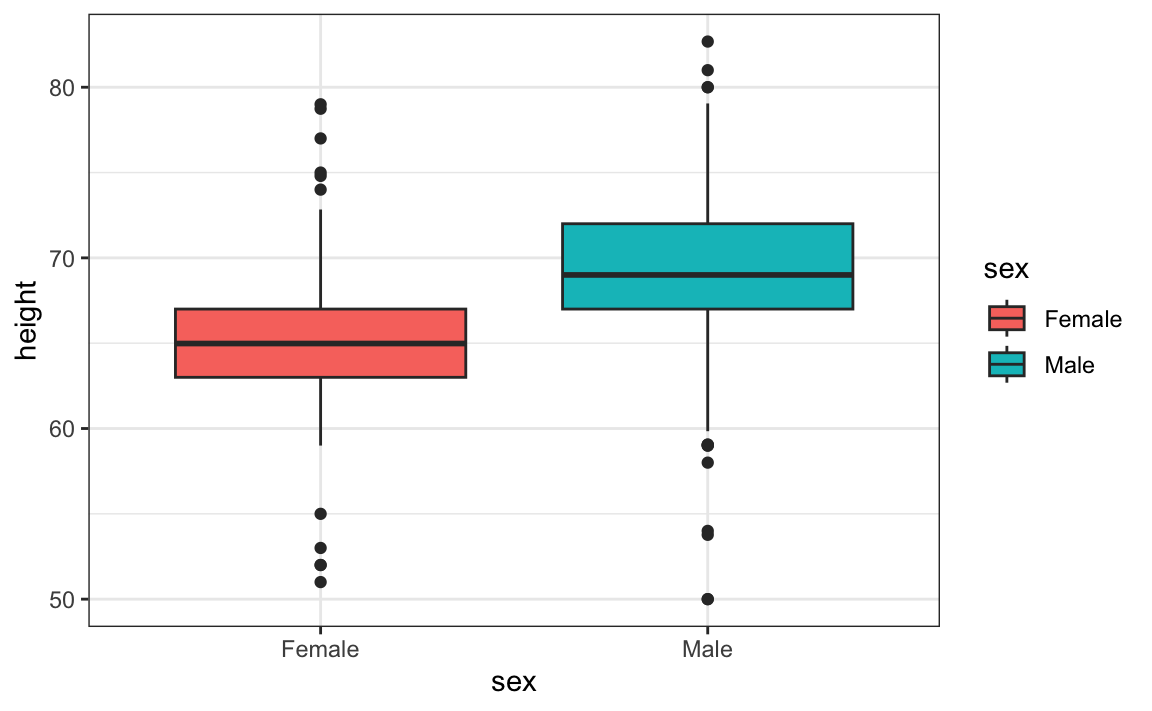
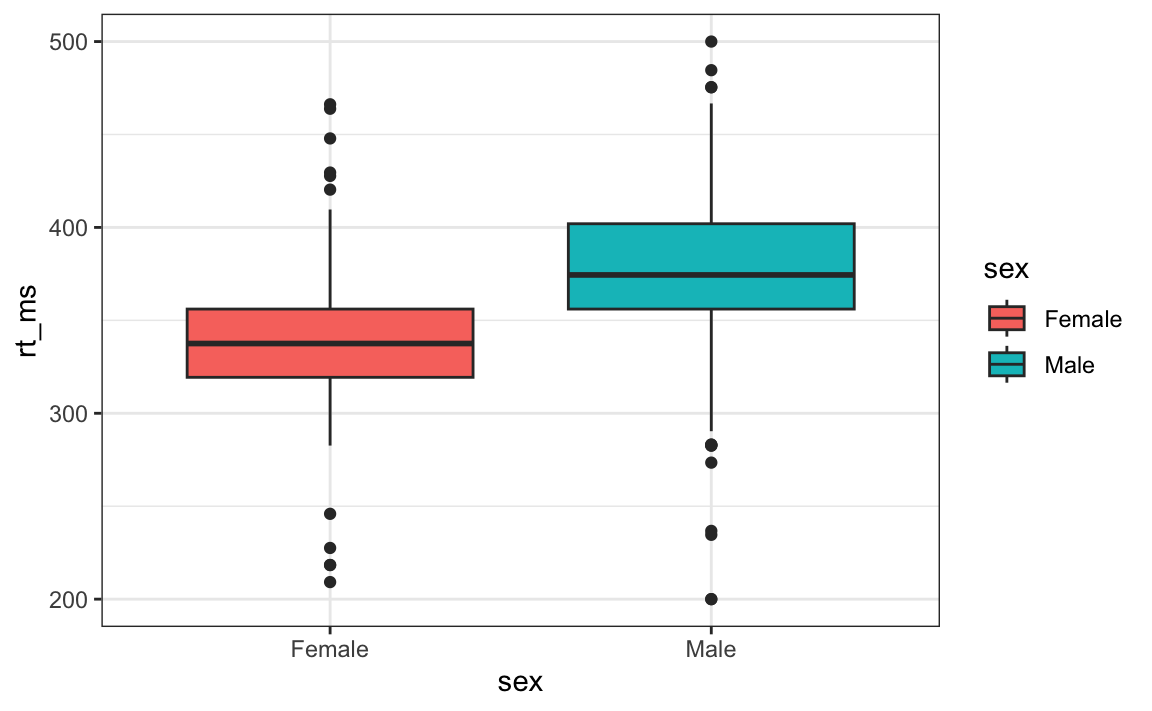
Reflavor distributions.qmd: heights->reaction_times, murders->app_data_breaches
Rewrites the ET/height-survey narrative frame to a reaction-time-study
frame (participants completing an RT task, anticipatory-press outliers
near the 200ms floor instead of an imperial-unit typo story), swaps the
US-regions barplot and boxplot examples to app_data_breaches, and moves
the population-by-continent exercise to global_tech_adoption's
active_user_base. Recomputed all interpretive numbers against the new
datasets (mean/SD, median breach rate, exercise answers) rather than
reusing the original's approximations.

diff --git a/docs/dataviz/distributions.html b/docs/dataviz/distributions.html
@@ -369,7 +369,7 @@ window.Quarto = {
    
   <ul>
   <li><a href="#variable-types" id="toc-variable-types" class="nav-link active" data-scroll-target="#variable-types"><span class="header-section-number">7.1</span> Variable types</a></li>
-  <li><a href="#case-study-describing-student-heights" id="toc-case-study-describing-student-heights" class="nav-link" data-scroll-target="#case-study-describing-student-heights"><span class="header-section-number">7.2</span> Case study: describing student heights</a></li>
+  <li><a href="#case-study-describing-reaction-times" id="toc-case-study-describing-reaction-times" class="nav-link" data-scroll-target="#case-study-describing-reaction-times"><span class="header-section-number">7.2</span> Case study: describing reaction times</a></li>
   <li><a href="#distributions" id="toc-distributions" class="nav-link" data-scroll-target="#distributions"><span class="header-section-number">7.3</span> Distributions</a>
   <ul class="collapse">
   <li><a href="#histograms" id="toc-histograms" class="nav-link" data-scroll-target="#histograms"><span class="header-section-number">7.3.1</span> Histograms</a></li>
@@ -407,34 +407,34 @@ window.Quarto = {
 
 <p>Summarizing complex datasets is crucial in data analysis, allowing us to share insights drawn from the data more effectively. One common method is to use the <em>average</em> value to summarize a list of numbers. For instance, a high school’s quality might be represented by the average score in a standardized test. Sometimes, an additional value, the <em>standard deviation</em>, is added. So, a report might say the scores were 680 <span class="math inline">\(\pm\)</span> 50, boiling down a full set of scores to just two numbers. But is this enough? Are we overlooking crucial information by relying solely on these summaries instead of the complete data?</p>
 <p>Our first data visualization building block is learning to summarize lists of numbers or categories. More often than not, the best way to share or explore these summaries is through data visualization. The most basic statistical summary of a list of objects or numbers is its distribution. Once a data has been summarized as a distribution, there are several data visualization techniques to effectively relay this information. For this reason, it is important to have a deep understand of the concept of a distribution.</p>
-<p>In this chapter, we discuss properties of a variety of distributions and how to visualize distributions using a motivating example of student heights.</p>
+<p>In this chapter, we discuss properties of a variety of distributions and how to visualize distributions using a motivating example of participant reaction times.</p>
 <section id="variable-types" class="level2" data-number="7.1">
 <h2 data-number="7.1" class="anchored" data-anchor-id="variable-types"><span class="header-section-number">7.1</span> Variable types</h2>
-<p>The two main variables types are <em>categorical</em> and <em>numeric</em>. Each can be divided into two other groups: categorical can be ordinal or not, whereas numerical variables can be discrete or continuous. When entry in a dataset represent a group rather than a number w we refer to the data as <em>categorical data</em>. Two simple examples are sex (male or female) and US regions (Northeast, South, North Central, West). Some categorical data can be ordered even if they are not numbers per se, such as spiciness (mild, medium, hot). In statistics, ordered categorical data are referred to as <em>ordinal</em> data. Examples of numerical data are population sizes, murder rates, and heights. We can further divide numerical data into continuous and discrete. Continuous variables are those that can take any value, such as heights, if measured with enough precision. For example, a pair of twins may be 68.12 and 68.11 inches, respectively. Counts, such as population sizes, are discrete because they have to be round numbers.</p>
+<p>The two main variables types are <em>categorical</em> and <em>numeric</em>. Each can be divided into two other groups: categorical can be ordinal or not, whereas numerical variables can be discrete or continuous. When entry in a dataset represent a group rather than a number w we refer to the data as <em>categorical data</em>. Two simple examples are sex (male or female) and US regions (Northeast, South, North Central, West). Some categorical data can be ordered even if they are not numbers per se, such as spiciness (mild, medium, hot). In statistics, ordered categorical data are referred to as <em>ordinal</em> data. Examples of numerical data are active-user counts, data-breach incident rates, and reaction times. We can further divide numerical data into continuous and discrete. Continuous variables are those that can take any value, such as reaction times, if measured with enough precision. For example, two participants completing the same trial may respond in 342.12 and 342.11 milliseconds, respectively. Counts, such as active-user counts, are discrete because they have to be round numbers.</p>
 <p>Keep in mind that discrete numeric data can be considered ordinal. Although this is technically true, we usually reserve the term ordinal data for variables belonging to a small number of different groups, with each group having many members. In contrast, when we have many groups with few cases in each group, we typically refer to them as discrete numerical variables. So, for example, the number of packs of cigarettes a person smokes a day, rounded to the closest pack, would be considered ordinal, while the actual number of cigarettes would be considered a numerical variable. But, indeed, there are examples that can be considered both numerical and ordinal when it comes to visualizing data.</p>
 <p>Here we focus on numeric variables because visualizing this data type is substantially more complex. However, we start by describing data visualization and summarization approaches for categorical data.</p>
 </section>
-<section id="case-study-describing-student-heights" class="level2" data-number="7.2">
-<h2 data-number="7.2" class="anchored" data-anchor-id="case-study-describing-student-heights"><span class="header-section-number">7.2</span> Case study: describing student heights</h2>
+<section id="case-study-describing-reaction-times" class="level2" data-number="7.2">
+<h2 data-number="7.2" class="anchored" data-anchor-id="case-study-describing-reaction-times"><span class="header-section-number">7.2</span> Case study: describing reaction times</h2>
 <p>We introduce a new motivating problem. It is an artificial one, but it will help us illustrate the concepts needed to understand distributions.</p>
-<p>Pretend that we have to describe the heights of our classmates to ET, an extraterrestrial that has never seen humans. As a first step, we need to collect data. To do this, we ask students to report their heights in inches. We ask them to provide sex information because we know there are two different height distributions by sex. We collect the data and save it in the <code>heights</code> data frame:</p>
+<p>Pretend that we have to describe the reaction times of our study participants to ET, an extraterrestrial that has never run a psychology experiment. As a first step, we need to collect data. To do this, we ask participants to complete a simple reaction-time task and record their response time in milliseconds. We ask them to provide sex information because we know there are two different reaction-time distributions by sex. We collect the data and save it in the <code>reaction_times</code> data frame:</p>
 <div class="cell" data-layout-align="center">
 <div class="sourceCode cell-code" id="cb1"><pre class="sourceCode r code-with-copy"><code class="sourceCode r"><span id="cb1-1"><a href="#cb1-1" aria-hidden="true" tabindex="-1"></a><span class="fu">library</span>(tidyverse)</span>
-<span id="cb1-2"><a href="#cb1-2" aria-hidden="true" tabindex="-1"></a><span class="fu">library</span>(dslabs)</span>
-<span id="cb1-3"><a href="#cb1-3" aria-hidden="true" tabindex="-1"></a><span class="fu">head</span>(heights)</span>
-<span id="cb1-4"><a href="#cb1-4" aria-hidden="true" tabindex="-1"></a><span class="co">#&gt;      sex height</span></span>
-<span id="cb1-5"><a href="#cb1-5" aria-hidden="true" tabindex="-1"></a><span class="co">#&gt; 1   Male     75</span></span>
-<span id="cb1-6"><a href="#cb1-6" aria-hidden="true" tabindex="-1"></a><span class="co">#&gt; 2   Male     70</span></span>
-<span id="cb1-7"><a href="#cb1-7" aria-hidden="true" tabindex="-1"></a><span class="co">#&gt; 3   Male     68</span></span>
-<span id="cb1-8"><a href="#cb1-8" aria-hidden="true" tabindex="-1"></a><span class="co">#&gt; 4   Male     74</span></span>
-<span id="cb1-9"><a href="#cb1-9" aria-hidden="true" tabindex="-1"></a><span class="co">#&gt; 5   Male     61</span></span>
-<span id="cb1-10"><a href="#cb1-10" aria-hidden="true" tabindex="-1"></a><span class="co">#&gt; 6 Female     65</span></span></code><button title="Copy to Clipboard" class="code-copy-button"><i class="bi"></i></button></pre></div>
+<span id="cb1-2"><a href="#cb1-2" aria-hidden="true" tabindex="-1"></a><span class="fu">library</span>(behdslabs)</span>
+<span id="cb1-3"><a href="#cb1-3" aria-hidden="true" tabindex="-1"></a><span class="fu">head</span>(reaction_times)</span>
+<span id="cb1-4"><a href="#cb1-4" aria-hidden="true" tabindex="-1"></a><span class="co">#&gt;      sex rt_ms</span></span>
+<span id="cb1-5"><a href="#cb1-5" aria-hidden="true" tabindex="-1"></a><span class="co">#&gt; 1   Male   430</span></span>
+<span id="cb1-6"><a href="#cb1-6" aria-hidden="true" tabindex="-1"></a><span class="co">#&gt; 2   Male   384</span></span>
+<span id="cb1-7"><a href="#cb1-7" aria-hidden="true" tabindex="-1"></a><span class="co">#&gt; 3   Male   365</span></span>
+<span id="cb1-8"><a href="#cb1-8" aria-hidden="true" tabindex="-1"></a><span class="co">#&gt; 4   Male   420</span></span>
+<span id="cb1-9"><a href="#cb1-9" aria-hidden="true" tabindex="-1"></a><span class="co">#&gt; 5   Male   301</span></span>
+<span id="cb1-10"><a href="#cb1-10" aria-hidden="true" tabindex="-1"></a><span class="co">#&gt; 6 Female   338</span></span></code><button title="Copy to Clipboard" class="code-copy-button"><i class="bi"></i></button></pre></div>
 </div>
-<p>One way to convey the heights to ET is to simply send him this list of 1,050 heights. But there are much more effective ways to convey this information, and understanding the concept of a distribution will be key. To simplify the explanation, we first focus on male heights. We examine the female height data in <a href="#sec-student-height-cont" class="quarto-xref"><span>Section 7.6</span></a>.</p>
+<p>One way to convey the reaction times to ET is to simply send them this list of 1,050 reaction times. But there are much more effective ways to convey this information, and understanding the concept of a distribution will be key. To simplify the explanation, we first focus on male reaction times. We examine the female reaction-time data in <a href="#sec-student-height-cont" class="quarto-xref"><span>Section 7.6</span></a>.</p>
 </section>
 <section id="distributions" class="level2" data-number="7.3">
 <h2 data-number="7.3" class="anchored" data-anchor-id="distributions"><span class="header-section-number">7.3</span> Distributions</h2>
-<p>The most basic statistical summary of a list of objects or numbers is its <em>distribution</em>. The simplest way to think of a distribution is as a compact description of a list with many entries. This concept should not be new for readers of this book. For example, with categorical data, the distribution simply describes the proportion of each unique category. The sex represented in the heights dataset is:</p>
+<p>The most basic statistical summary of a list of objects or numbers is its <em>distribution</em>. The simplest way to think of a distribution is as a compact description of a list with many entries. This concept should not be new for readers of this book. For example, with categorical data, the distribution simply describes the proportion of each unique category. The sex represented in the <code>reaction_times</code> dataset is:</p>
 <div class="cell" data-layout-align="center">
 <pre><code>#&gt; 
 #&gt; Female   Male 
@@ -453,8 +453,8 @@ window.Quarto = {
 <p>This particular plot simply shows us four numbers, one for each category. We usually use barplots to display a few numbers. Although this particular plot does not provide much more insight than a frequency table itself, it is a first example of how we convert a vector into a plot that succinctly summarizes all the information in the vector. When the data is numerical, the task of displaying distributions is more challenging.</p>
 <section id="histograms" class="level3" data-number="7.3.1">
 <h3 data-number="7.3.1" class="anchored" data-anchor-id="histograms"><span class="header-section-number">7.3.1</span> Histograms</h3>
-<p>Numerical data that are not categorical also have distributions. However, in general, when data is not categorical, reporting the frequency of each entry, as we did for categorical data, is not an effective summary since most entries are unique. For example, in our case study, while several students reported a height of 68 inches, only one student reported a height of <code>68.503937007874</code> inches and only one student reported a height <code>68.8976377952756</code> inches. We assume that they converted from 174 and 175 centimeters, respectively.</p>
-<p>Statistics textbooks teach us that a more useful way to define a distribution for numeric data is to define a function that reports the proportion of the data below <span class="math inline">\(a\)</span> for all possible values of <span class="math inline">\(a\)</span>. This function is called the empirical cumulative distribution function (eCDF), it can be plotted, and it provides a full description of the distribution of our data. Here is the eCDF for male student heights:</p>
+<p>Numerical data that are not categorical also have distributions. However, in general, when data is not categorical, reporting the frequency of each entry, as we did for categorical data, is not an effective summary since most entries are unique. For example, in our case study, while several participants recorded a reaction time close to 374 milliseconds, only one participant recorded a reaction time of <code>283.1325</code> milliseconds and only one recorded a reaction time of <code>435.0265</code> milliseconds. This level of precision is typical of computer-timed reaction-time tasks, which log responses to a fraction of a millisecond.</p>
+<p>Statistics textbooks teach us that a more useful way to define a distribution for numeric data is to define a function that reports the proportion of the data below <span class="math inline">\(a\)</span> for all possible values of <span class="math inline">\(a\)</span>. This function is called the empirical cumulative distribution function (eCDF), it can be plotted, and it provides a full description of the distribution of our data. Here is the eCDF for male reaction times:</p>
 <div class="cell" data-layout-align="center">
 <div class="cell-output-display">
 <div class="quarto-figure quarto-figure-center">
@@ -465,24 +465,24 @@ window.Quarto = {
 </div>
 </div>
 <p>However, summarizing data by plotting the eCDF is actually not very popular in practice. The main reason is that it does not easily convey characteristics of interest such as: at what value is the distribution centered? Is the distribution symmetric? What ranges contain 95% of the values?</p>
-<p><em>Histograms</em> are much preferred because they greatly facilitate answering such questions. Histograms sacrifice just a bit of information to produce plots that are much easier to interpret. The simplest way to make a histogram is to divide the span of our data into non-overlapping bins of the same size. Then, for each bin, we count the number of values that fall in that interval. The histogram plots these counts as bars with the base of the bar defined by the intervals. Here is the histogram for the height data splitting the range of values into one inch intervals: <span class="math inline">\((49.5, 50.5]\)</span>, <span class="math inline">\((50.5, 51.5]\)</span>, <span class="math inline">\((51.5,52.5]\)</span>, <span class="math inline">\((52.5,53.5]\)</span>, <span class="math inline">\(...\)</span>, <span class="math inline">\((82.5,83.5]\)</span>.</p>
+<p><em>Histograms</em> are much preferred because they greatly facilitate answering such questions. Histograms sacrifice just a bit of information to produce plots that are much easier to interpret. The simplest way to make a histogram is to divide the span of our data into non-overlapping bins of the same size. Then, for each bin, we count the number of values that fall in that interval. The histogram plots these counts as bars with the base of the bar defined by the intervals. Here is the histogram for the reaction-time data splitting the range of values into ten-millisecond intervals: <span class="math inline">\((195, 205]\)</span>, <span class="math inline">\((205, 215]\)</span>, <span class="math inline">\((215,225]\)</span>, <span class="math inline">\((225,235]\)</span>, <span class="math inline">\(...\)</span>, <span class="math inline">\((495,505]\)</span>.</p>
 <div class="cell" data-layout-align="center">
 <div class="cell-output-display">
 <div class="quarto-figure quarto-figure-center">
 <figure class="figure">
-<p><img src="distributions_files/figure-html/height-histogram-1.png" class="img-fluid quarto-figure quarto-figure-center figure-img" style="width:70.0%"></p>
+<p><img src="distributions_files/figure-html/rt-histogram-1.png" class="img-fluid quarto-figure quarto-figure-center figure-img" style="width:70.0%"></p>
 </figure>
 </div>
 </div>
 </div>
 <p>As you can see in the figure above, a histogram is similar to a barplot, but it differs in that the x-axis is numerical, not categorical.</p>
-<p>If we send this plot to ET, he will immediately learn some important properties about our data. First, the range of the data is from 50 to 84 with the majority (more than 95%) between 63 and 75 inches. Second, the heights are close to symmetric around 69 inches. Also, by adding up counts, ET could obtain a very good approximation of the proportion of the data in any interval. Therefore, the histogram above is not only easy to interpret, but also provides almost all the information contained in the raw list of 812 male heights with about 30 bins.</p>
-<p>What information do we lose? Note that all values in each interval are treated the same when computing bin heights. So, for example, the histogram does not distinguish between 64, 64.1, and 64.2 inches. Given that these differences are almost unnoticeable to the eye, the practical implications are negligible and we were able to summarize the data to just 23 numbers.</p>
+<p>If we send this plot to ET, they will immediately learn some important properties about our data. First, the range of the data is from 200 to 500 with the majority (more than 95%) between 305 and 439 milliseconds. Second, the reaction times are close to symmetric around 377 milliseconds. Also, by adding up counts, ET could obtain a very good approximation of the proportion of the data in any interval. Therefore, the histogram above is not only easy to interpret, but also provides almost all the information contained in the raw list of 812 male reaction times with about 30 bins.</p>
+<p>What information do we lose? Note that all values in each interval are treated the same when computing bin heights. So, for example, the histogram does not distinguish between 340, 340.1, and 340.2 milliseconds. Given that these differences are almost unnoticeable to the eye, the practical implications are negligible and we were able to summarize the data to just 26 numbers.</p>
 <p>We discuss how to code histograms in <a href="ggplot2.html#sec-other-geometries" class="quarto-xref"><span>Section 8.14</span></a>.</p>
 </section>
 <section id="smoothed-density" class="level3" data-number="7.3.2">
 <h3 data-number="7.3.2" class="anchored" data-anchor-id="smoothed-density"><span class="header-section-number">7.3.2</span> Smoothed density</h3>
-<p><em>Smooth density</em> plots relay the same information as a histogram but are aesthetically more appealing. Here is what a smooth density plot looks like for our male heights data:</p>
+<p><em>Smooth density</em> plots relay the same information as a histogram but are aesthetically more appealing. Here is what a smooth density plot looks like for our male reaction-time data:</p>
 <div class="cell" data-layout-align="center">
 <div class="cell-output-display">
 <div class="quarto-figure quarto-figure-center">
@@ -493,7 +493,7 @@ window.Quarto = {
 </div>
 </div>
 <p>In this plot, we no longer have sharp edges at the interval boundaries and many of the local peaks have been removed. Also, the scale of the y-axis changed from counts to <em>density</em>. To fully understand smooth densities, we have to understand <em>estimates</em>, a topic covered in statistics our advanced data science textbooks. Here we simply describe them as making the histograms prettier by drawing a curve that goes through the top of the histogram bars and then removing the bars. The values shown y-axis are chosen so that the area under the curve adds up to 1. This implies that for any interval, the area under the curve for that interval gives us an approximation of how what proportion of the data is in the interval.</p>
-<p>An advantage of smooth densities over histograms for visualization purposes is that densities make it easier to compare two distributions. This is in large part because the jagged edges of the histogram add clutter. Here is an example comparing male and female heights:</p>
+<p>An advantage of smooth densities over histograms for visualization purposes is that densities make it easier to compare two distributions. This is in large part because the jagged edges of the histogram add clutter. Here is an example comparing male and female reaction times:</p>
 <div class="cell" data-layout-align="center">
 <div class="cell-output-display">
 <div class="quarto-figure quarto-figure-center">
@@ -518,11 +518,11 @@ window.Quarto = {
 </div>
 </div>
 </div>
-<p>The normal distribution is one of the most famous mathematical concepts in history. A reason for this is that the distribution of many datasets can be approximated with normal distributions. These include gambling winnings, heights, weights, blood pressure, standardized test scores, and experimental measurement errors. Statistical textbooks offer explanations for why this is the case. But how can the same distribution approximate datasets with completely different ranges for values, for example heights and weights? A second important characteristic of the normal distribution is that it can be adapted to different datasets by just adjusting two numbers, referred to as the <em>average</em> or <em>mean</em> and the <em>standard deviation</em> (SD). The normal distribution is symmetric, centered at what we refer to as the average, and most values (about 95%) are within 2 SDs from the average. The plot above shows a normal distribution with average 0 and SD 1, often referred to as a <em>standard normal</em>. Note that the fact that only two numbers are needed to adapt the normal distribution to a dataset implies that if our data distribution is approximated by a normal distribution, all the information needed to describe the distribution can be encoded by just two numbers. We now define these values for an arbitrary list of numbers.</p>
+<p>The normal distribution is one of the most famous mathematical concepts in history. A reason for this is that the distribution of many datasets can be approximated with normal distributions. These include gambling winnings, reaction times, weights, blood pressure, standardized test scores, and experimental measurement errors. Statistical textbooks offer explanations for why this is the case. But how can the same distribution approximate datasets with completely different ranges for values, for example reaction times and weights? A second important characteristic of the normal distribution is that it can be adapted to different datasets by just adjusting two numbers, referred to as the <em>average</em> or <em>mean</em> and the <em>standard deviation</em> (SD). The normal distribution is symmetric, centered at what we refer to as the average, and most values (about 95%) are within 2 SDs from the average. The plot above shows a normal distribution with average 0 and SD 1, often referred to as a <em>standard normal</em>. Note that the fact that only two numbers are needed to adapt the normal distribution to a dataset implies that if our data distribution is approximated by a normal distribution, all the information needed to describe the distribution can be encoded by just two numbers. We now define these values for an arbitrary list of numbers.</p>
 <p>Once we are convinced that our data, say it is stored in the vector <code>x</code>, has a distribution that is <em>approximately normal</em>, we can find the specific one that matches our data by matching the average and SD of the data to the average and SD of the normal distribution, respectively. For a list of numbers contained in a vector <code>x</code>:</p>
 <div class="cell" data-layout-align="center">
-<div class="sourceCode cell-code" id="cb3"><pre class="sourceCode r code-with-copy"><code class="sourceCode r"><span id="cb3-1"><a href="#cb3-1" aria-hidden="true" tabindex="-1"></a>index <span class="ot">&lt;-</span> heights<span class="sc">$</span>sex <span class="sc">==</span> <span class="st">"Male"</span></span>
-<span id="cb3-2"><a href="#cb3-2" aria-hidden="true" tabindex="-1"></a>x <span class="ot">&lt;-</span> heights<span class="sc">$</span>height[index]</span></code><button title="Copy to Clipboard" class="code-copy-button"><i class="bi"></i></button></pre></div>
+<div class="sourceCode cell-code" id="cb3"><pre class="sourceCode r code-with-copy"><code class="sourceCode r"><span id="cb3-1"><a href="#cb3-1" aria-hidden="true" tabindex="-1"></a>index <span class="ot">&lt;-</span> reaction_times<span class="sc">$</span>sex <span class="sc">==</span> <span class="st">"Male"</span></span>
+<span id="cb3-2"><a href="#cb3-2" aria-hidden="true" tabindex="-1"></a>x <span class="ot">&lt;-</span> reaction_times<span class="sc">$</span>rt_ms[index]</span></code><button title="Copy to Clipboard" class="code-copy-button"><i class="bi"></i></button></pre></div>
 </div>
 <p>the average is defined as</p>
 <div class="cell" data-layout-align="center">
@@ -539,9 +539,9 @@ window.Quarto = {
 <span id="cb6-2"><a href="#cb6-2" aria-hidden="true" tabindex="-1"></a>s <span class="ot">&lt;-</span> <span class="fu">sd</span>(x)</span>
 <span id="cb6-3"><a href="#cb6-3" aria-hidden="true" tabindex="-1"></a><span class="fu">c</span>(<span class="at">average =</span> m, <span class="at">sd =</span> s)</span>
 <span id="cb6-4"><a href="#cb6-4" aria-hidden="true" tabindex="-1"></a><span class="co">#&gt; average      sd </span></span>
-<span id="cb6-5"><a href="#cb6-5" aria-hidden="true" tabindex="-1"></a><span class="co">#&gt;   69.31    3.61</span></span></code><button title="Copy to Clipboard" class="code-copy-button"><i class="bi"></i></button></pre></div>
+<span id="cb6-5"><a href="#cb6-5" aria-hidden="true" tabindex="-1"></a><span class="co">#&gt;   377.3    33.2</span></span></code><button title="Copy to Clipboard" class="code-copy-button"><i class="bi"></i></button></pre></div>
 </div>
-<p>Here is a plot of our student height smooth density in blue and the normal distribution with mean = 69.3 and SD = 3.6 plotted as a black line:</p>
+<p>Here is a plot of our reaction-time smooth density in blue and the normal distribution with mean = 377.3 and SD = 33.2 plotted as a black line:</p>
 <div class="cell" data-layout-align="center">
 <div class="cell-output-display">
 <div class="quarto-figure quarto-figure-center">
@@ -557,7 +557,7 @@ window.Quarto = {
 <h2 data-number="7.4" class="anchored" data-anchor-id="sec-boxplots"><span class="header-section-number">7.4</span> Boxplots</h2>
 <p>To understand boxplots we need to define some terms that are commonly used in exploratory data analysis.</p>
 <p>The <em>percentiles</em> are the values for which <span class="math inline">\(p = 0.01, 0.02, ..., 0.99\)</span> of the data are less then or equal to that value, respectively. We call, for example, the case of <span class="math inline">\(p=0.10\)</span> the 10th percentile, which gives us a number for which 10% of the data is below. The most famous percentile is the 50th, also known as the <em>median</em>. Another special case that receives a name are the <em>quartiles</em>, which are obtained when setting <span class="math inline">\(p=0.25,0.50\)</span>, and <span class="math inline">\(0.75\)</span>, which are used by the boxplot.</p>
-<p>To motivate boxplots we will go back to the US murder data. Suppose we want to summarize the murder rate distribution. Using the data visualization technique we have learned, we can quickly see that the normal approximation does not apply here:</p>
+<p>To motivate boxplots we will go back to the data-breach incident data. Suppose we want to summarize the breach-rate distribution. Using the data visualization technique we have learned, we can quickly see that the normal approximation does not apply here:</p>
 <div class="cell" data-layout-align="center">
 <div class="cell-output-display">
 <div class="quarto-figure quarto-figure-center">
@@ -580,18 +580,18 @@ window.Quarto = {
 </div>
 </div>
 <p>with the box defined by the 25% and 75% percentile and the whiskers showing the range. The distance between the 25% and 75% percentile is called the <em>interquartile</em> range. The two points are outliers according to the R implementation. The median is shown with a horizontal line.</p>
-<p>From just this simple plot, we know that the median is about 2.5, that the distribution is not symmetric, and that the range is 0 to 5 for the great majority of states with two exceptions.</p>
+<p>From just this simple plot, we know that the median is about 2.7, that the distribution is not symmetric, and that the range is 0 to 5 for the great majority of states with two exceptions.</p>
 <p>We discuss how to make boxplots in <a href="ggplot2.html#sec-other-geometries" class="quarto-xref"><span>Section 8.14</span></a>.</p>
 </section>
 <section id="sec-dataviz-stratification" class="level2" data-number="7.5">
 <h2 data-number="7.5" class="anchored" data-anchor-id="sec-dataviz-stratification"><span class="header-section-number">7.5</span> Stratification</h2>
-<p>In data analysis we often divide observations into groups based on the values of one or more variables associated with those observations. For example in the next section we divide the height values into groups based on a sex variable: females and males. We call this procedure <em>stratification</em> and refer to the resulting groups as <em>strata</em>.</p>
+<p>In data analysis we often divide observations into groups based on the values of one or more variables associated with those observations. For example in the next section we divide the reaction-time values into groups based on a sex variable: females and males. We call this procedure <em>stratification</em> and refer to the resulting groups as <em>strata</em>.</p>
 <p>Stratification is common in data visualization because we are often interested in how the distributions of variables differ across different subgroups. We will see several examples throughout this part of the book, starting with the next section.</p>
 </section>
 <section id="sec-student-height-cont" class="level2" data-number="7.6">
 <h2 data-number="7.6" class="anchored" data-anchor-id="sec-student-height-cont"><span class="header-section-number">7.6</span> Case study continued</h2>
-<p>If we are convinced that the male height data is well approximated with a normal distribution we can report back to ET a very succinct summary: male heights follow a normal distribution with an average of 69.3 inches and a SD of 3.6 inches. With this information, ET will have a good idea of what to expect when he meets our male students. However, to provide a complete picture we need to also provide a summary of the female heights.</p>
-<p>Boxplots are useful when we want to quickly compare two or more distributions. Here are the heights for men and women:</p>
+<p>If we are convinced that the male reaction-time data is well approximated with a normal distribution we can report back to ET a very succinct summary: male reaction times follow a normal distribution with an average of 377.3 milliseconds and a SD of 33.2 milliseconds. With this information, ET will have a good idea of what to expect when they test our male participants. However, to provide a complete picture we need to also provide a summary of the female reaction times.</p>
+<p>Boxplots are useful when we want to quickly compare two or more distributions. Here are the reaction times for men and women:</p>
 <div class="cell" data-layout-align="center">
 <div class="cell-output-display">
 <div class="quarto-figure quarto-figure-center">
@@ -601,34 +601,34 @@ window.Quarto = {
 </div>
 </div>
 </div>
-<p>The plot immediately reveals that males are, on average, taller than females. The interquartile ranges appear to be similar. But does the normal approximation also work for the female height data collected by the survey? We expect that they will follow a normal distribution, just like males. However, exploratory plots reveal that the approximation is not as useful:</p>
+<p>The plot immediately reveals that males are, on average, slower to respond than females. The interquartile ranges appear to be similar. But does the normal approximation also work for the female reaction-time data collected by the study? We expect that they will follow a normal distribution, just like males. However, exploratory plots reveal that the approximation is not as useful:</p>
 <div class="cell" data-layout-align="center">
 <div class="cell-output-display">
 <div class="quarto-figure quarto-figure-center">
 <figure class="figure">
-<p><img src="distributions_files/figure-html/histogram-qqplot-female-heights-1.png" class="img-fluid quarto-figure quarto-figure-center figure-img" style="width:70.0%"></p>
+<p><img src="distributions_files/figure-html/histogram-qqplot-female-reaction-times-1.png" class="img-fluid quarto-figure quarto-figure-center figure-img" style="width:70.0%"></p>
 </figure>
 </div>
 </div>
 </div>
-<p>We see something we did not see for the males: the density plot has a second “bump”. Also, the highest points tend to be taller than expected by the normal than expected heights for a normal distribution. When reporting back to ET, we might need to provide a histogram rather than just the average and standard deviation for the female heights.</p>
-<p>However, go back and read Tukey’s quote. We have noticed what we didn’t expect to see. If we look at other female height distributions, we do find that they are well approximated with a normal distribution. So why are our female students different? Is our class a requirement for the female basketball team? Are small proportions of females claiming to be taller than they are? Another, perhaps more likely, explanation is that in the form students used to enter their heights, <code>FEMALE</code> was the default sex and some males entered their heights, but forgot to change the sex variable. In any case, data visualization has helped discover a potential flaw in our data.</p>
+<p>We see something we did not see for the males: the density plot has a second “bump”. When reporting back to ET, we might need to provide a histogram rather than just the average and standard deviation for the female reaction times.</p>
+<p>However, go back and read Tukey’s quote. We have noticed what we didn’t expect to see. If we look at other female reaction-time distributions, we do find that they are well approximated with a normal distribution. So why are our female participants different? Is our sample partly drawn from a group of competitive gamers with unusually fast reflexes? Are a small proportion of female participants actually male participants who were assigned the wrong sex label? Another, perhaps more likely, explanation is that in the data-entry form participants used, <code>FEMALE</code> was the default sex and some male participants completed the task but forgot to change the sex field. In any case, data visualization has helped discover a potential flaw in our data.</p>
 <p>Regarding the five smallest values, note that these values are:</p>
 <div class="cell" data-layout-align="center">
-<div class="sourceCode cell-code" id="cb7"><pre class="sourceCode r code-with-copy"><code class="sourceCode r"><span id="cb7-1"><a href="#cb7-1" aria-hidden="true" tabindex="-1"></a>heights <span class="sc">|&gt;</span> <span class="fu">filter</span>(sex <span class="sc">==</span> <span class="st">"Female"</span>) <span class="sc">|&gt;</span> </span>
-<span id="cb7-2"><a href="#cb7-2" aria-hidden="true" tabindex="-1"></a>  <span class="fu">slice_min</span>(height, <span class="at">n =</span> <span class="dv">5</span>) <span class="sc">|&gt;</span></span>
-<span id="cb7-3"><a href="#cb7-3" aria-hidden="true" tabindex="-1"></a>  <span class="fu">pull</span>(height)</span>
-<span id="cb7-4"><a href="#cb7-4" aria-hidden="true" tabindex="-1"></a><span class="co">#&gt; [1] 51 52 52 53 55</span></span></code><button title="Copy to Clipboard" class="code-copy-button"><i class="bi"></i></button></pre></div>
+<div class="sourceCode cell-code" id="cb7"><pre class="sourceCode r code-with-copy"><code class="sourceCode r"><span id="cb7-1"><a href="#cb7-1" aria-hidden="true" tabindex="-1"></a>reaction_times <span class="sc">|&gt;</span> <span class="fu">filter</span>(sex <span class="sc">==</span> <span class="st">"Female"</span>) <span class="sc">|&gt;</span></span>
+<span id="cb7-2"><a href="#cb7-2" aria-hidden="true" tabindex="-1"></a>  <span class="fu">slice_min</span>(rt_ms, <span class="at">n =</span> <span class="dv">5</span>) <span class="sc">|&gt;</span></span>
+<span id="cb7-3"><a href="#cb7-3" aria-hidden="true" tabindex="-1"></a>  <span class="fu">pull</span>(rt_ms)</span>
+<span id="cb7-4"><a href="#cb7-4" aria-hidden="true" tabindex="-1"></a><span class="co">#&gt; [1] 209 218 218 228 246</span></span></code><button title="Copy to Clipboard" class="code-copy-button"><i class="bi"></i></button></pre></div>
 </div>
-<p>Because these are reported heights, a possibility is that the student meant to enter <code>5'1"</code>, <code>5'2"</code>, <code>5'3"</code> or <code>5'5"</code>.</p>
+<p>Because genuine visual reaction time rarely drops below about 200 milliseconds, a possibility is that these were anticipatory presses: participants responding before the stimulus appeared, rather than truly reacting to it.</p>
 </section>
 <section id="exercises" class="level2" data-number="7.7">
 <h2 data-number="7.7" class="anchored" data-anchor-id="exercises"><span class="header-section-number">7.7</span> Exercises</h2>
-<p>1. Define variables containing the heights of males and females like this:</p>
+<p>1. Define variables containing the reaction times of males and females like this:</p>
 <div class="cell" data-layout-align="center">
-<div class="sourceCode cell-code" id="cb8"><pre class="sourceCode r code-with-copy"><code class="sourceCode r"><span id="cb8-1"><a href="#cb8-1" aria-hidden="true" tabindex="-1"></a><span class="fu">library</span>(dslabs)</span>
-<span id="cb8-2"><a href="#cb8-2" aria-hidden="true" tabindex="-1"></a>male <span class="ot">&lt;-</span> heights<span class="sc">$</span>height[heights<span class="sc">$</span>sex <span class="sc">==</span> <span class="st">"Male"</span>]</span>
-<span id="cb8-3"><a href="#cb8-3" aria-hidden="true" tabindex="-1"></a>female <span class="ot">&lt;-</span> heights<span class="sc">$</span>height[heights<span class="sc">$</span>sex <span class="sc">==</span> <span class="st">"Female"</span>]</span></code><button title="Copy to Clipboard" class="code-copy-button"><i class="bi"></i></button></pre></div>
+<div class="sourceCode cell-code" id="cb8"><pre class="sourceCode r code-with-copy"><code class="sourceCode r"><span id="cb8-1"><a href="#cb8-1" aria-hidden="true" tabindex="-1"></a><span class="fu">library</span>(behdslabs)</span>
+<span id="cb8-2"><a href="#cb8-2" aria-hidden="true" tabindex="-1"></a>male <span class="ot">&lt;-</span> reaction_times<span class="sc">$</span>rt_ms[reaction_times<span class="sc">$</span>sex <span class="sc">==</span> <span class="st">"Male"</span>]</span>
+<span id="cb8-3"><a href="#cb8-3" aria-hidden="true" tabindex="-1"></a>female <span class="ot">&lt;-</span> reaction_times<span class="sc">$</span>rt_ms[reaction_times<span class="sc">$</span>sex <span class="sc">==</span> <span class="st">"Female"</span>]</span></code><button title="Copy to Clipboard" class="code-copy-button"><i class="bi"></i></button></pre></div>
 </div>
 <p>How many measurements do we have for each?</p>
 <p>2. Suppose we can’t make a plot and want to compare the distributions side by side. We can’t just list all the numbers. Instead, we will look at the percentiles. In <a href="#sec-boxplots" class="quarto-xref"><span>Section 7.4</span></a> we defined percentiles as the values for which <span class="math inline">\(p = 0.01, 0.02, \ldots, 0.99\)</span> of the data are less than or equal to that value. The <code>quantile</code> function, which we used in <a href="../R/tidyverse.html" class="quarto-xref"><span>Chapter 4</span></a> and <a href="../R/data-table.html" class="quarto-xref"><span>Chapter 5</span></a>, is a generalization: <code>quantile(x, p)</code> returns the value for which proportion <code>p</code> of the data in <code>x</code> are at or below, for any <code>p</code> between 0 and 1. Percentiles are the special case where <span class="math inline">\(p\)</span> is one of <span class="math inline">\(0.01, 0.02, \ldots, 0.99\)</span>, for example, <code>quantile(x, 0.10)</code> gives the 10th percentile. You can pass a vector of proportions to get several percentiles at once:</p>
@@ -636,7 +636,7 @@ window.Quarto = {
 <div class="sourceCode cell-code" id="cb9"><pre class="sourceCode r code-with-copy"><code class="sourceCode r"><span id="cb9-1"><a href="#cb9-1" aria-hidden="true" tabindex="-1"></a><span class="fu">quantile</span>(male, <span class="fu">c</span>(<span class="fl">0.10</span>, <span class="fl">0.30</span>, <span class="fl">0.50</span>, <span class="fl">0.70</span>, <span class="fl">0.90</span>))</span></code><button title="Copy to Clipboard" class="code-copy-button"><i class="bi"></i></button></pre></div>
 </div>
 <p>Use this to create a five-element vector <code>female_percentiles</code> and a five-element vector <code>male_percentiles</code> containing the 10th, 30th, 50th, 70th, and 90th percentiles for each sex. Then create a data frame with these two vectors as columns.</p>
-<p>3. Study the following boxplots showing population sizes by country:</p>
+<p>3. Study the following boxplots showing active-user-base sizes by country:</p>
 <div class="cell" data-layout-align="center">
 <div class="cell-output-display">
 <div class="quarto-figure quarto-figure-center">
@@ -646,10 +646,10 @@ window.Quarto = {
 </div>
 </div>
 </div>
-<p>Which continent has the country with the biggest population size?</p>
-<p>4. What continent has the largest median population size?</p>
-<p>5. What is median population size for Africa to the nearest million?</p>
-<p>6. What proportion of countries in Europe have populations below 14 million?</p>
+<p>Which continent has the country with the biggest active-user base?</p>
+<p>4. What continent has the largest median active-user base?</p>
+<p>5. What is the median active-user base for Africa, to the nearest million?</p>
+<p>6. What proportion of countries in Europe have an active-user base below 14 million?</p>
 <ol type="a">
 <li>0.99</li>
 <li>0.75</li>
@@ -657,12 +657,12 @@ window.Quarto = {
 <li>0.25</li>
 </ol>
 <p>7. If we use a log transformation, which continent shown above has the largest interquartile range?</p>
-<p>8. Load the height data set and create a vector <code>x</code> with just the male heights:</p>
+<p>8. Load the reaction-time data set and create a vector <code>x</code> with just the male reaction times:</p>
 <div class="cell" data-layout-align="center">
-<div class="sourceCode cell-code" id="cb10"><pre class="sourceCode r code-with-copy"><code class="sourceCode r"><span id="cb10-1"><a href="#cb10-1" aria-hidden="true" tabindex="-1"></a><span class="fu">library</span>(dslabs)</span>
-<span id="cb10-2"><a href="#cb10-2" aria-hidden="true" tabindex="-1"></a>x <span class="ot">&lt;-</span> heights<span class="sc">$</span>height[heights<span class="sc">$</span>sex<span class="sc">==</span><span class="st">"Male"</span>]</span></code><button title="Copy to Clipboard" class="code-copy-button"><i class="bi"></i></button></pre></div>
+<div class="sourceCode cell-code" id="cb10"><pre class="sourceCode r code-with-copy"><code class="sourceCode r"><span id="cb10-1"><a href="#cb10-1" aria-hidden="true" tabindex="-1"></a><span class="fu">library</span>(behdslabs)</span>
+<span id="cb10-2"><a href="#cb10-2" aria-hidden="true" tabindex="-1"></a>x <span class="ot">&lt;-</span> reaction_times<span class="sc">$</span>rt_ms[reaction_times<span class="sc">$</span>sex<span class="sc">==</span><span class="st">"Male"</span>]</span></code><button title="Copy to Clipboard" class="code-copy-button"><i class="bi"></i></button></pre></div>
 </div>
-<p>What proportion of the data is between 69 and 72 inches (taller than 69, but shorter or equal to 72)? Hint: use a logical operator and <code>mean</code>.</p>
+<p>What proportion of the data is between 375 and 400 milliseconds (more than 375, but no more than 400 milliseconds)? Hint: use a logical operator and <code>mean</code>.</p>
 
 
 </section>
@@ -1083,7 +1083,7 @@ window.Quarto = {
 <footer class="footer">
   <div class="nav-footer">
     <div class="nav-footer-left">
-<p>Introduction to Behavioural Data Science, adapted from Rafael A. Irizarry’s Introduction to Data Science</p>
+<p>Introduction to Behavioural Data Science, adapted from Rafael A. Irizarry’s <a href="https://rafalab.dfci.harvard.edu/dsbook/">Introduction to Data Science</a></p>
 </div>   
     <div class="nav-footer-center">
       &nbsp;

diff --git a/docs/R/intro-to-R.html b/docs/R/intro-to-R.html
@@ -750,7 +750,7 @@ ul.task-list li input[type="checkbox"] {
 <footer class="footer">
   <div class="nav-footer">
     <div class="nav-footer-left">
-<p>Introduction to Behavioural Data Science, adapted from Rafael A. Irizarry’s Introduction to Data Science</p>
+<p>Introduction to Behavioural Data Science, adapted from Rafael A. Irizarry’s <a href="https://rafalab.dfci.harvard.edu/dsbook/">Introduction to Data Science</a></p>
 </div>   
     <div class="nav-footer-center">
       &nbsp;
